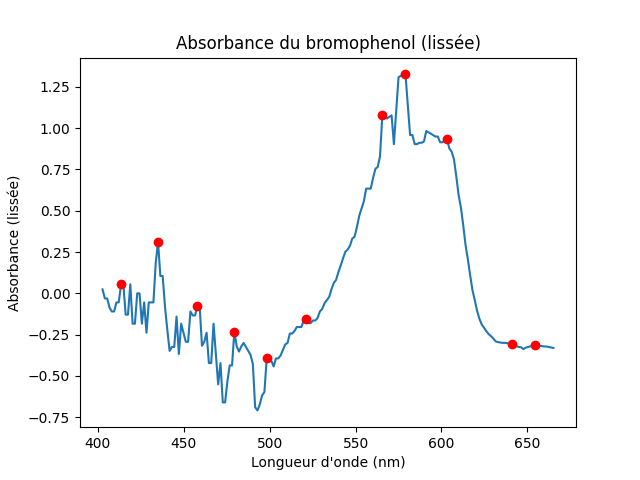
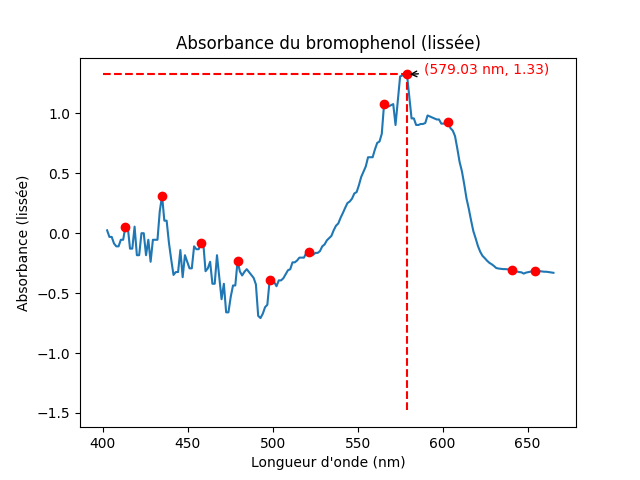
Analyse_des_pics_lissage_courbe (Update)

diff --git a/Analyse_de_courbes/Recherche_des_pics.py b/Analyse_de_courbes/Recherche_des_pics.py
@@ -3,6 +3,7 @@ import numpy as np
 import pandas as pd
 from scipy.signal import find_peaks
 
+
 # Définir la largeur de la fenêtre de recherche des pics
 window_width = 10
 
@@ -10,17 +11,17 @@ window_width = 10
 # Définir la taille de la fenêtre de lissage
 smoothing_window_size = 5
 
-Chemin_acces="Manip\Manip_22_03_2023"
+Chemin_acces="Manip\Manip_24_03_2023\Fente_0_2mm"
 
 # Lire le fichier ODS
-data_1 = pd.read_csv(Chemin_acces +'\expérience_1_echantillon_csv.csv', encoding='ISO-8859-1')
-data_2= pd.read_csv(Chemin_acces +'\solution_blanc.csv', encoding='ISO-8859-1')
+data_1 = pd.read_csv(Chemin_acces +'\solution_blanc.csv', encoding='ISO-8859-1')
+data_2= pd.read_csv(Chemin_acces +'\solution_echantillon1.csv', encoding='ISO-8859-1')
 
-# Obtenir les colonnes D et E
-Longueur_donde = data_2['Longueur d\'onde (nm)']
-#Tension_blanc = data_1['Tension blanc (Volt)']
-#Tension_echantillon= data_2['Tension échantillon (Volt)']
-Absorbance=data_1['log'] # np.log10(np.abs(Tension_blanc)/np.abs(Tension_echantillon))
+# Obtenir les colonnes
+Longueur_donde = data_1['Longueur d\'onde (nm)']
+Tension_blanc = data_1['Tension blanc (Volt)']
+Tension_echantillon= data_2['Tension échantillon (Volt)']
+Absorbance=np.log10(np.abs(Tension_blanc)/np.abs(Tension_echantillon))
 
 # Lissage de la courbe d'absorbance
 smoothed_absorbance = Absorbance.rolling(smoothing_window_size, center=True).mean()
@@ -28,14 +29,22 @@ smoothed_absorbance = Absorbance.rolling(smoothing_window_size, center=True).mea
 # Recherche des pics d'absorbance
 peaks, _ = find_peaks(smoothed_absorbance, distance=window_width)
 
-# Affichage des pics détectés
+# Affichage des pics d  étectés
 print('Les pics d\'absorbance se trouvent aux positions suivantes :')
 for i in peaks:
     print('{:.2f} nm : {:.2f}'.format(Longueur_donde[i], smoothed_absorbance[i]))
 
+Pic_d_absorbance=smoothed_absorbance.max()
+Pic_longueur_donde=Longueur_donde[smoothed_absorbance.idxmax()]
+
+
+
+
+
 # Sauvegarde des coordonnées des pics dans un fichier CSV
 df = pd.DataFrame({'Longueur d\'onde (nm)': Longueur_donde[peaks], 'Absorbance': Absorbance[peaks]})
 df.to_csv(Chemin_acces +'\peaks.csv', index=False)
+
 
 plt.plot(Longueur_donde, smoothed_absorbance)
 plt.plot(Longueur_donde[peaks], smoothed_absorbance[peaks], 'ro')
@@ -43,7 +52,17 @@ plt.xlabel('Longueur d\'onde (nm)')
 plt.ylabel('Absorbance (lissée)')
 plt.title('Absorbance du bromophenol (lissée)')
 
-# Affichage du graphique
-plt.show()
+plt.annotate('({:.2f} nm, {:.2f})'.format(Pic_longueur_donde, Pic_d_absorbance),
+             xy=(Pic_longueur_donde , Pic_d_absorbance),
+             xytext=(Pic_longueur_donde + 10 , Pic_d_absorbance),
+             fontsize=10,
+             color='red',
+             arrowprops=dict(facecolor='red', arrowstyle='->'))
+
+# Ligne pointillée reliant le point de pic à l'axe des x
+plt.hlines(y=Pic_d_absorbance, xmin=Longueur_donde[0] , xmax=Pic_longueur_donde, linestyle='dashed', color='red')
+
+# Ligne pointillée reliant le point de pic à l'axe des y
+plt.vlines(x=Pic_longueur_donde, ymin=min(Absorbance), ymax=Pic_d_absorbance, linestyle='dashed', color='red')
 # Affichage du graphique
 plt.show()

diff --git a/Analyse_de_courbes/Recherche_des_pics_lissage_courbe.py b/Analyse_de_courbes/Recherche_des_pics_lissage_courbe.py
@@ -9,7 +9,7 @@ window_width = 10
 # Définir la taille de la fenêtre de lissage
 smoothing_window_size = 9
 
-Chemin_acces="Manip\Manip_24_03_2023\Fente_0_2mm"
+Chemin_acces="Manip\Manip_24_03_2023\Fente_0_5mm"
 
 # Lire le fichier ODS
 data_1 = pd.read_csv(Chemin_acces +'\solution_blanc.csv', encoding='ISO-8859-1')
@@ -24,6 +24,16 @@ Absorbance=np.log10(np.abs(Tension_blanc)/np.abs(Tension_echantillon))
 
 # Lissage de la courbe d'absorbance
 smoothed_absorbance = savgol_filter(Absorbance, window_length=smoothing_window_size, polyorder=3)
+
+Pic_d_absorbance = smoothed_absorbance.max()
+
+# Trouver l'indice du maximum
+s = pd.Series(smoothed_absorbance)
+max_index = s.idxmax()
+
+# Récupérer la longueur d'onde associée au maximum
+Pic_longueur_donde = Longueur_donde[max_index]
+
 
 # Recherche des pics d'absorbance
 peaks, _ = find_peaks(smoothed_absorbance, distance=window_width)
@@ -40,5 +50,18 @@ plt.xlabel('Longueur d\'onde (nm)')
 plt.ylabel('Absorbance (lissée)')
 plt.title('Absorbance du bromophenol (lissée)')
 
+
+plt.annotate('({:.2f} nm, {:.2f})'.format(Pic_longueur_donde, Pic_d_absorbance),
+             xy=(Pic_longueur_donde , Pic_d_absorbance),
+             xytext=(Pic_longueur_donde + 10 , Pic_d_absorbance),
+             fontsize=10,
+             color='red',
+             arrowprops=dict(facecolor='red', arrowstyle='->'))
+
+# Ligne pointillée reliant le point de pic à l'axe des x
+plt.hlines(y=Pic_d_absorbance, xmin=Longueur_donde[0] , xmax=Pic_longueur_donde, linestyle='dashed', color='red')
+
+# Ligne pointillée reliant le point de pic à l'axe des y
+plt.vlines(x=Pic_longueur_donde, ymin=min(Absorbance), ymax=Pic_d_absorbance, linestyle='dashed', color='red')
 # Affichage du graphique
 plt.show()

diff --git a/Analyse_de_courbes/Tracer_une_courbe_avec_exel.py b/Analyse_de_courbes/Tracer_une_courbe_avec_exel.py
@@ -22,7 +22,7 @@ data_1 = pd.read_csv(Chemin_acces +'\solution_blanc.csv', encoding='ISO-8859-1')
 data_2= pd.read_csv(Chemin_acces +'\solution_echantillon1.csv', encoding='ISO-8859-1')
 
 
-# Obtenir les colonnes D et E
+# Obtenir les colonnes 
 Longueur_donde = data_1['Longueur d\'onde (nm)']
 Tension_blanc = data_1['Tension blanc (Volt)']
 Tension_echantillon= data_2['Tension échantillon (Volt)']
